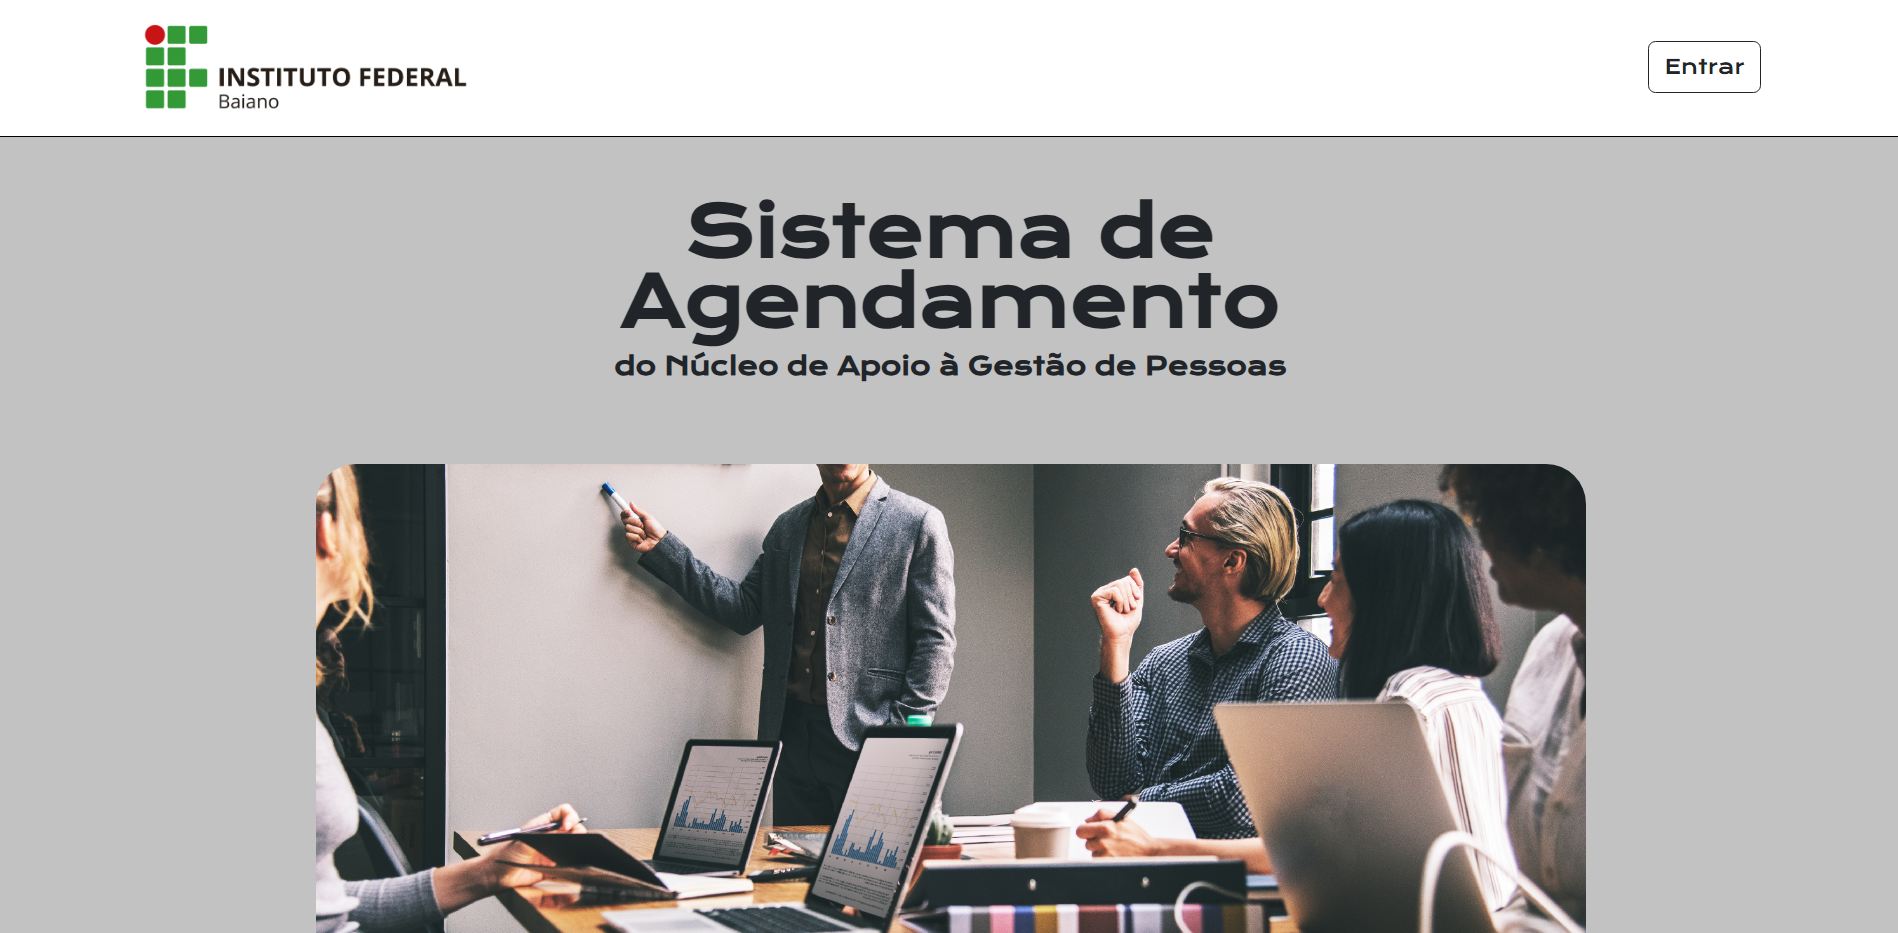
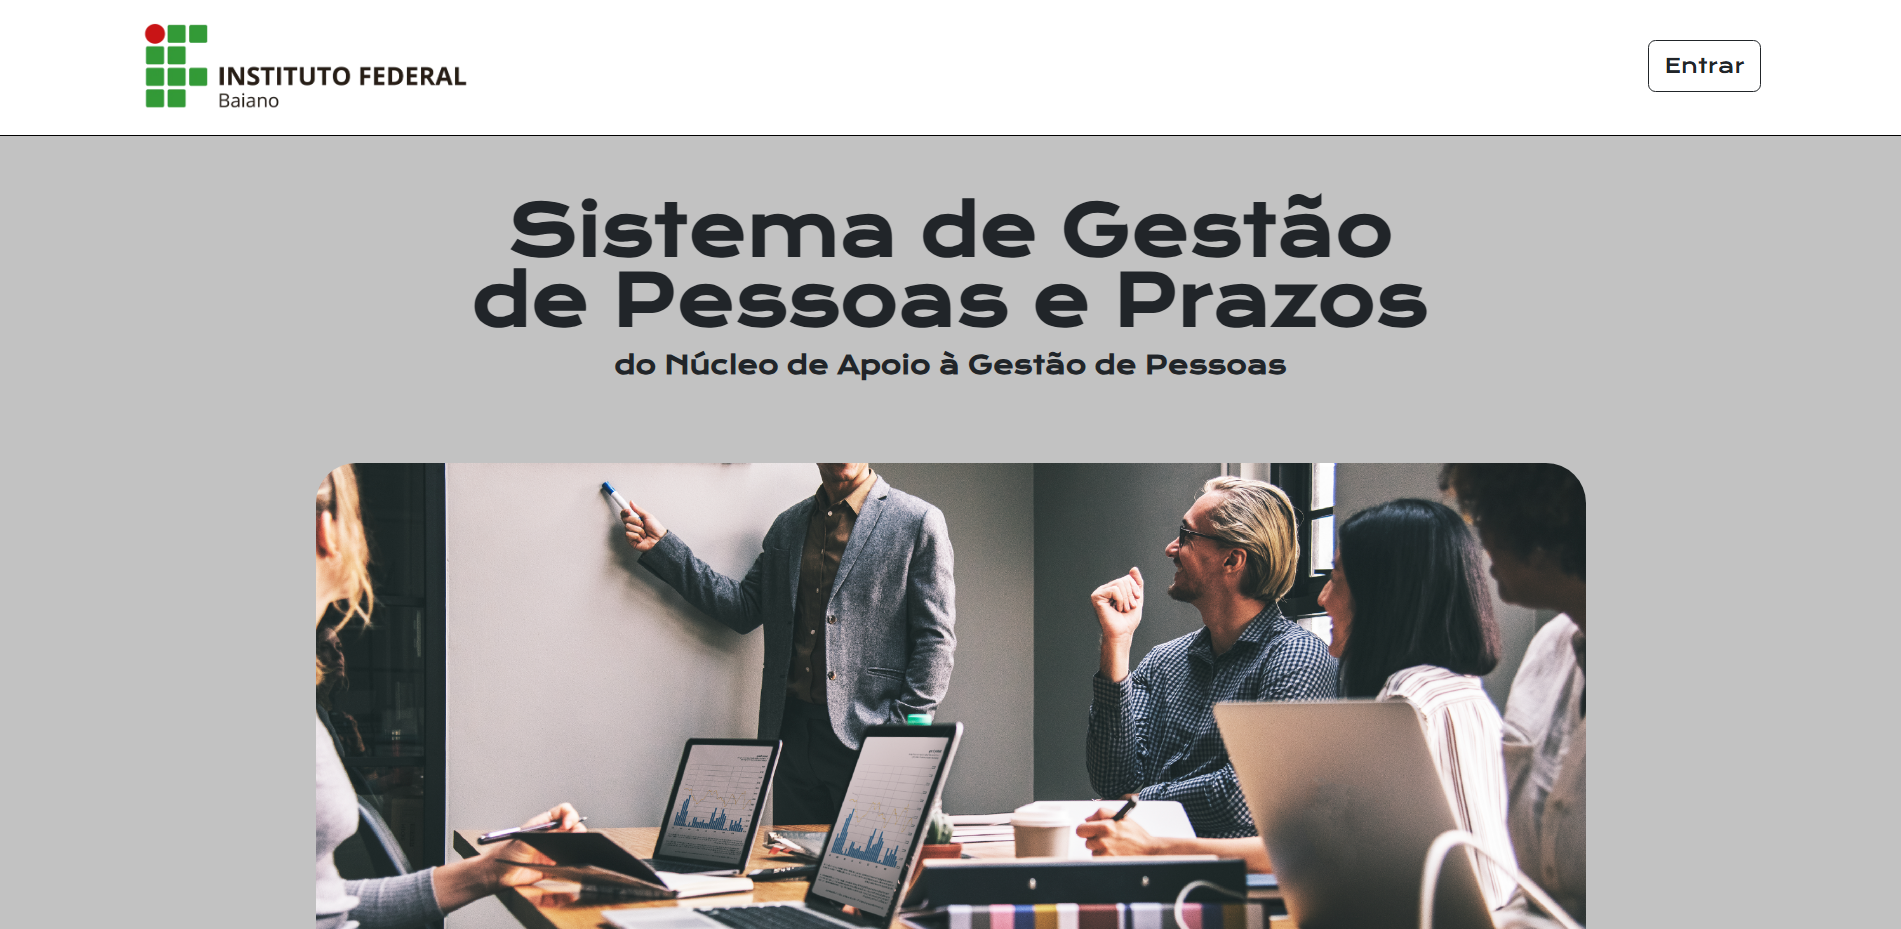
docs: correção de nome do sistema

diff --git a/README.md b/README.md
@@ -1,6 +1,6 @@
-# 📅 Sistema de Agendamento
+# 👤 Sistema de Gestão de Pessoas e Prazos
 
-Aplicação web desenvolvida para o **Núcleo de Apoio à Gestão de Pessoas do IFBaiano**, com o objetivo de gerenciar o quadro de funcionários (Docentes e Técnicos Administrativos), acompanhar estágios probatórios, contratos e fornecer um sistema de notificações inteligentes sobre prazos e progressões.
+Sistema web desenvolvido para o **Núcleo de Apoio à Gestão de Pessoas do IFBaiano**, com o objetivo de gerenciar o quadro de funcionários, acompanhar estágios probatórios, contratos e fornecer um sistema de notificações inteligentes sobre prazos e progressões.
 
 ## Prévia
 
